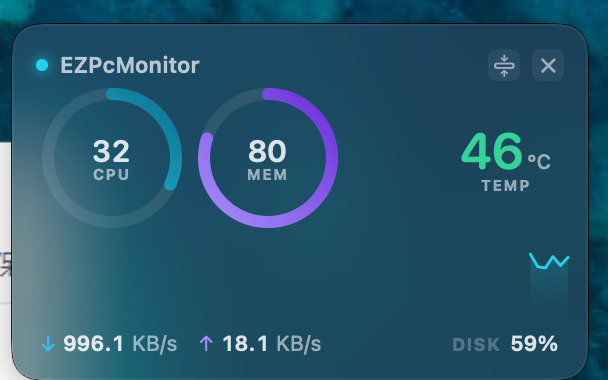
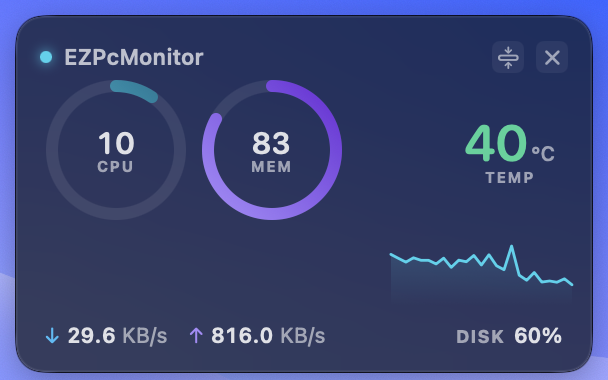
docs: 悬浮窗为什么需要一层纱
- ADR-033：先量再改。四格矩阵（主题 × 背后）摆出来，深色主题 + 纯白底只有 2.3:1；
  把材质拆成「透明度 × 色调」解出 e≈0.53、T≈#5B5B5B，说明底色确实由背后决定。
  记了三个修法上的判断：纱必须在 .opacity() 外面、0.45 是量出来的、.blendMode(.darken)
  对 NSVisualEffectView 不生效（垫纯蓝窗口，B 通道一点没变）。
- README：「主面板背景」那节补上「悬浮窗的底：同样的纱，更厚一档」，带改完的四格矩阵；
  特性里注明滑杆只作用于背景层。
- PERF：新增一行；另外把「CPU 只能横向比」那条扩成「改外观要做 A/B」——这次单测三次
  得到 12.8 / 7.4 / 8.2，看着像翻倍，A/B 之后基线同一天也是 7.5 / 7.8，根本没有回归。
- 截图：悬浮窗两张重拍（纱改了外观），尺寸与原图一致。

diff --git a/docs/DECISIONS.md b/docs/DECISIONS.md
@@ -1267,3 +1267,75 @@ private var cpuStats: (avg: Double, max: Double) { SeriesLogic.stats(input.point
 `name` / `v`），句序由各语言的译文自己决定——中文是「整段区间 CPU 平均 12%，峰值 87%
 （10-27 21:35）；最忙的是 Electron（平均 17.8%）」，英文的从句顺序不一样，写死中文语序
 再拼是拼不出来的。
+
+## ADR-033 · 悬浮窗的纱：白底上不再白字白底
+
+**问题**（用户原话）：「白色背景下，悬浮窗半透明背景色看不清内容了。」
+
+**先量，别猜。** 铺一块纯白全屏窗口垫在悬浮窗底下，截窗口区域取底色：
+
+| 主题 | 背后 | 底色 | 白/黑字对比度 |
+|---|---|---|---|
+| 深色 | 纯白 | `#A8AAAA` | 白字 **2.3:1** ✗ |
+| 深色 | 纯黑 | `#303335` | 白字 12:1 ✓ |
+| 浅色 | 纯白 | `#E8EAEB` | 黑字 17:1 ✓ |
+| 浅色 | 纯黑 | `#737475` | 黑字 4.5:1 △ |
+
+**根因**：`.hudWindow` 材质是半透明的，底色由背后的东西决定；文字颜色却只由主题决定。
+这两个各走各的，一旦背后比主题预期的亮（深色主题 + 白底），就是白字压白底。
+把材质拆成「透明度 e × 色调 T」解一下：白底 `#A8AAAA`、黑底 `#303335`，联立得
+e ≈ 0.53、T ≈ `#5B5B5B`——一半是透的，所以背后的亮度直接决定最终底色。
+
+（顺带说明为什么 `.hudWindow` 不是「永远深色」：它跟着 `effectiveAppearance` 走。
+系统是浅色、应用强制深色时，材质仍然按应用的外观解析，所以拿到的是深色主题那一档的
+`#5B5B5B` 玻璃，而不是纯黑。）
+
+**修法一：文字不跟着滑杆降。** 滑杆原来接的是 `panel.alphaValue`，而窗口的 alpha 会把
+**文字一起降下去**——白字降到 60% 就是灰字，压在浅色背景上直接消失。现在窗口恒为
+`alphaValue = 1`，滑杆只作用在背景那层（`WidgetBackground().opacity(opacity)`），
+和主面板「文字始终不透明」是同一条规矩。
+
+**修法二：材质外面加纱。** 深色压黑、浅色压白，强度 0.45，位置在 `.opacity()` **外面**——
+理由和 ADR-030 完全一样：纱在层内的话，滑杆一降它也跟着降，等于什么都没兜住。
+
+```swift
+ZStack {
+    WidgetBackground().opacity(opacity)   // 滑杆作用在这层
+    veil                                  // 黑 45% / 白 45%
+}
+```
+
+**为什么是 0.45。** 深色主题白底：`#A8AAAA` → `#5E5E5F`，白字 7.0:1、`Ink.tertiary`
+3.4:1。试过 0.40（5.7:1）和 0.35（5.1:1），离 4.5 太近；再厚玻璃就没了。
+
+改完的矩阵（每格都实测）：
+
+| 主题 | 背后 | 100% | 80% | 60% |
+|---|---|---|---|---|
+| 深色 | 白 | `#5E5E5E` 7.0:1 | `#666666` 6.1:1 | `#6A6A6A` 5.7:1 |
+| 深色 | 黑 | `#131313` 18:1 | 同 | `#111111` |
+| 浅色 | 白 | `#EDEDED` 19:1 | `#EFEFEF` | `#EFF0F0` |
+| 浅色 | 黑 | `#ADADAD` 9.4:1 | `#A1A2A2` 8.3:1 | `#969696` 7.4:1 |
+
+**试过但不行：`.blendMode(.darken)` 封顶。** 语义上它才是对的——比 cap 亮的地方压到 cap，
+已经够暗的地方原样不动，白底和黑底都能兼顾。实测**混合模式对 `NSVisualEffectView` 不
+生效**：垫一张纯蓝 `#315680` 的窗口，`.darken` 到 `#5C5C5C` 之后 B 通道还是 128，
+一点没被压住。所以只能退回叠色，代价是本来就暗的地方会再暗一次（纯黑垫底时 `#131313`）。
+真实壁纸透上来的是带色相的深色，玻璃感还在。
+
+**代价**：滑杆的效果更弱了。材质的透光本来就只有一半，再叠 45% 的纱，滑杆从 100% 拉到
+60% 只让底色变了 12 级（`#5E5E5E` → `#6A6A6A`）。这是「可读性优先」必须付的钱——
+一个看不清字的半透明挂件没有意义。
+
+**占用（A/B，同一台机器同一天，各测两次）**：
+
+| | 改前 | 改后 |
+|---|---|---|
+| CPU 1s | 7.5% / 7.8% | 6.9% / 6.7% |
+| CPU 5s | 2.6% / 2.4% | 2.6% / 2.3% |
+| 悬浮窗 footprint | 18 MB | 18 MB |
+| 悬浮窗 RSS | 38 MB | 38 MB |
+| 主面板 footprint | 34 MB | 34 MB |
+
+没有回归。**A/B 是必须做的**：单独测三次得到 12.8 / 7.4 / 8.2，看着像涨了一倍，其实
+基线同一天也是 7.5 / 7.8——那天桌面上有动画，整条基线都偏高。跨天比单个数字没有意义。

diff --git a/docs/PERF.md b/docs/PERF.md
@@ -60,14 +60,20 @@ CPU 走 `scripts/probe.swift` 而不是 `top` / `ps`：那两个要 `task_for_pi
 | 2026-10-25 | `513510d` | 同上，图片背景 · 背景=image | 6.4 MB | 5.3 MB | 17 MB | 43 MB | 36 MB | 5.5% | 1.7% |
 | 2026-10-27 | `fac213f` | 卡片磨砂 + 下限 10% | 6.4 MB | 5.4 MB | 17 MB | 37 MB | 34 MB | 8.1% | 2.6% |
 | 2026-10-27 | `8b9bf8b` | 背景色换 7 档 + 托盘菜单锚点 + 报告横轴与结论条 | 6.5 MB | 5.4 MB | 17 MB | 36 MB | 34 MB | 5.9% | 2.1% |
+| 2026-10-31 | `15678fb` | 悬浮窗加纱（A/B 各两次，取改后中位数） | 6.5 MB | 5.4 MB | 18 MB | 38 MB | 34 MB | 6.8% | 2.5% |
 
 结论：从基线到现在，磁盘 +0.6 MB，默认路径的内存没动。两笔额外开销都是「用户主动
 要求才付」的：换成自定义图片背景 +4 MB，开着报告预览窗口 +19 MB（关掉就还回去）。
 
 **CPU 这一列要看趋势，别抠单次。** 内存三列（footprint / RSS）重复测量的偏差只有
-1~2 MB，CPU 能差出一倍：同一份产物在屏幕唤醒、桌面上有动画的情况下量到过 5.9% ~ 8.2%。
+1~2 MB，CPU 能差出一倍：同一份产物在屏幕唤醒、桌面上有动画的情况下量到过 5.9% ~ 12.8%。
 原因在毛玻璃——`.behindWindow` 每帧都要重算窗口背后的模糊，桌面内容一变（视频、滚动、
 正在打字的窗口）成本就上去了。所以 CPU 只能横向比同一次会话里的两行，跨天比没意义。
+
+**改外观的时候做 A/B，别信单次。** 2026-10-31 给悬浮窗加纱，单测三次得到
+12.8 / 7.4 / 8.2，看着像涨了一倍；把改动 `git stash` 掉、同一份环境重测基线，得到
+7.5 / 7.8——那天桌面上有动画，整条基线都偏高，根本没有回归。改前改后各测两次、
+交替着测，才看得出差别。
 
 **读数会飘，量之前先清场。** 同一份产物连量两遍，RSS 差 2 MB 是常态；有一次直接量出
 悬浮窗 75 MB（历史一直 40 上下），再量一遍又回到 42——多半是上一轮 GUI 测试留下的实例
